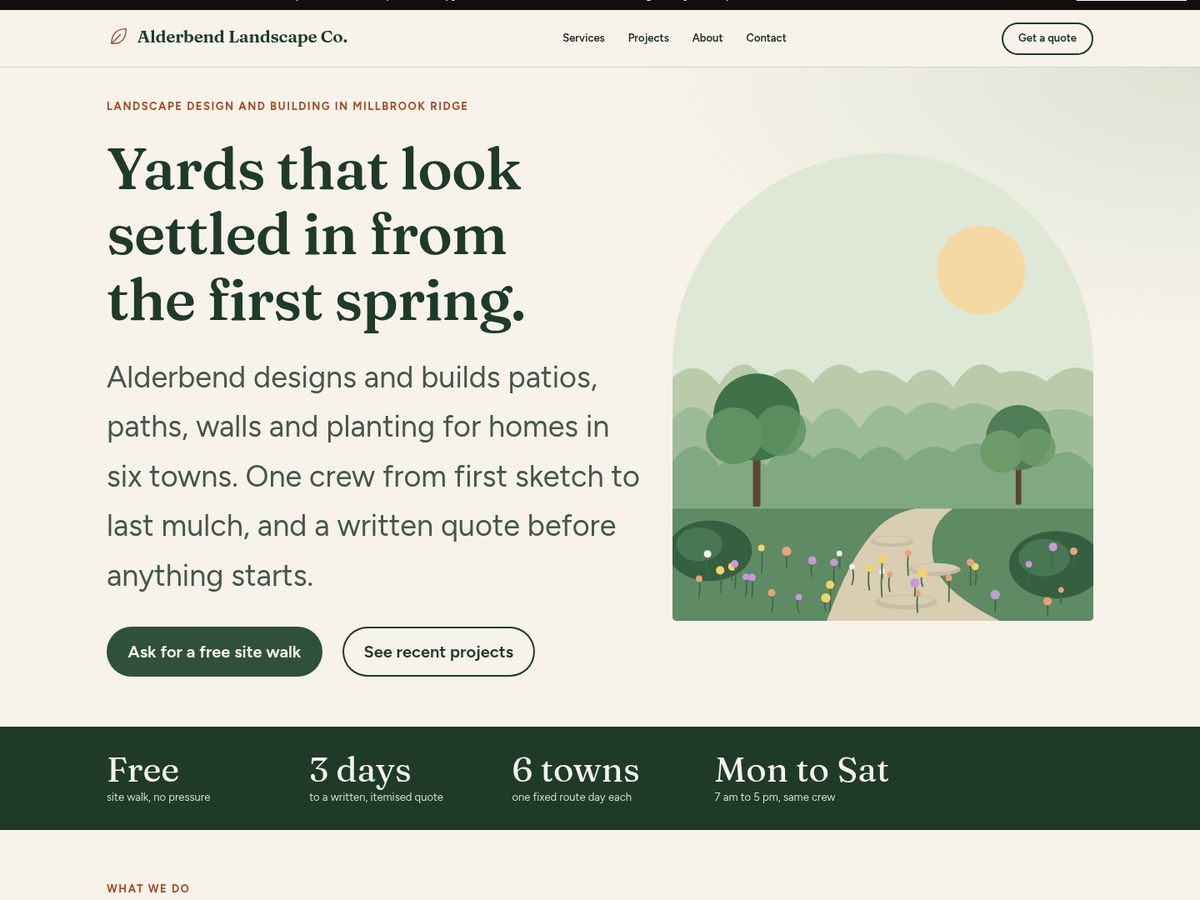
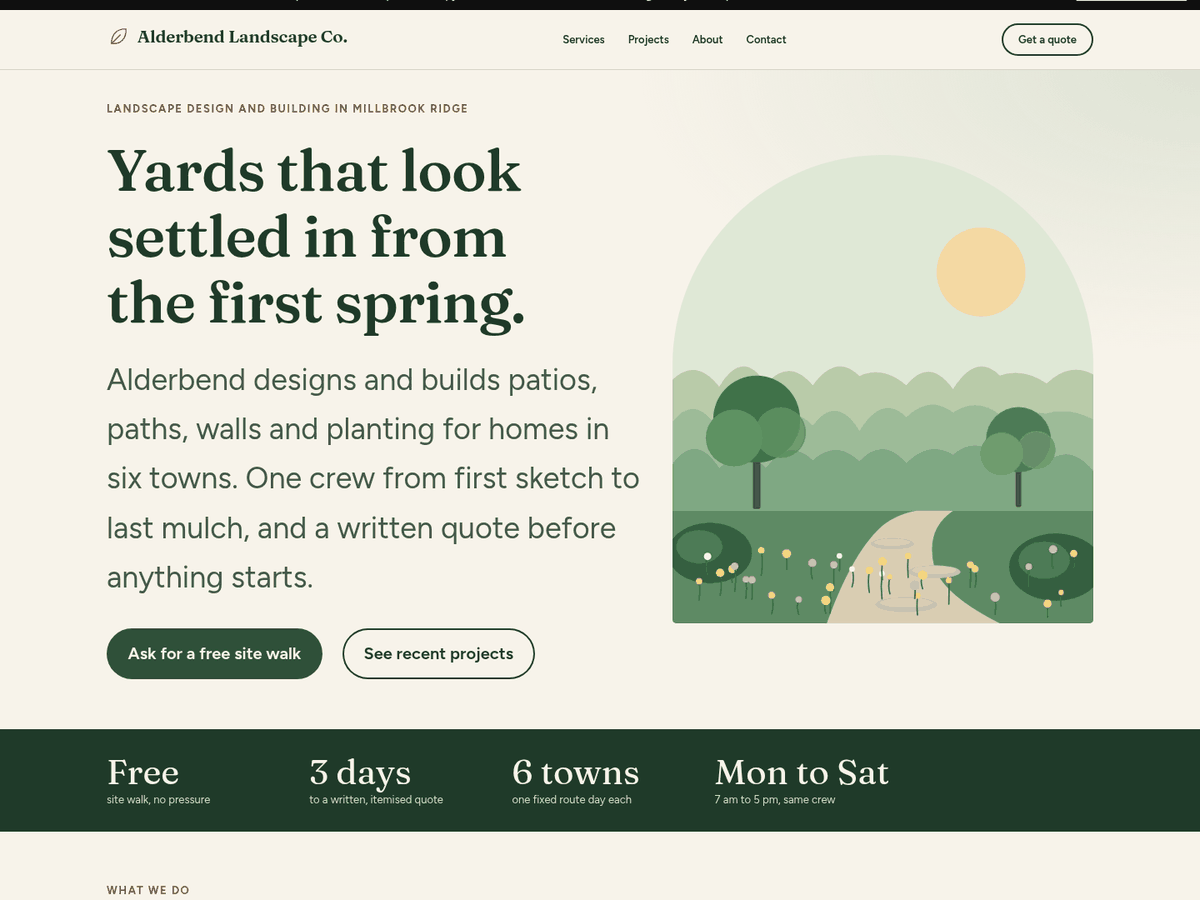
Style the phone menu overlay and add the editor and menu screenshot tools

diff --git a/theme/alderbend/assets/css/theme.css b/theme/alderbend/assets/css/theme.css
@@ -34,6 +34,10 @@
 	mask: url("../images/icon-leaf.svg") center / contain no-repeat;
 }
 .ab-nav .wp-block-navigation__container { gap: 1.75rem; }
+.ab-nav .wp-block-navigation__responsive-container.is-menu-open { padding: 1.5rem var(--wp--preset--spacing--40); }
+.ab-nav .is-menu-open .wp-block-navigation__container { gap: 1.1rem; align-items: flex-start; }
+.ab-nav .is-menu-open .wp-block-navigation-item__content { font-family: var(--wp--preset--font-family--display); font-size: 2rem; font-weight: 560; color: var(--wp--preset--color--base); }
+.ab-nav .is-menu-open .wp-block-navigation__responsive-dialog { margin-top: 1rem; }
 
 /* Buttons */
 .wp-block-button.is-style-alderbend-ghost .wp-block-button__link {
@@ -112,6 +116,10 @@
 	mask: url("../images/icon-leaf.svg") center / contain no-repeat;
 }
 .ab-nav .wp-block-navigation__container { gap: 1.75rem; }
+.ab-nav .wp-block-navigation__responsive-container.is-menu-open { padding: 1.5rem var(--wp--preset--spacing--40); }
+.ab-nav .is-menu-open .wp-block-navigation__container { gap: 1.1rem; align-items: flex-start; }
+.ab-nav .is-menu-open .wp-block-navigation-item__content { font-family: var(--wp--preset--font-family--display); font-size: 2rem; font-weight: 560; color: var(--wp--preset--color--base); }
+.ab-nav .is-menu-open .wp-block-navigation__responsive-dialog { margin-top: 1rem; }
 
 /* Buttons */
 .wp-block-button.is-style-alderbend-ghost .wp-block-button__link {

diff --git a/theme/alderbend/patterns/header-inner.php b/theme/alderbend/patterns/header-inner.php
@@ -19,7 +19,7 @@ if ( ! defined( 'ABSPATH' ) ) {
 <div class="wp-block-group alignfull ab-header"><!-- wp:group {"align":"wide","className":"ab-header__inner","layout":{"type":"flex","flexWrap":"wrap","justifyContent":"space-between","verticalAlignment":"center"}} -->
 <div class="wp-block-group alignwide ab-header__inner"><!-- wp:site-title {"level":0,"className":"ab-brand"} /-->
 
-<!-- wp:navigation {"overlayMenu":"mobile","layout":{"type":"flex","justifyContent":"center"},"className":"ab-nav"} -->
+<!-- wp:navigation {"overlayMenu":"mobile","overlayBackgroundColor":"primary-dark","overlayTextColor":"base","layout":{"type":"flex","justifyContent":"center"},"className":"ab-nav"} -->
 <!-- wp:navigation-link {"label":"<?php echo esc_attr_x( 'Services', 'menu item', 'alderbend' ); ?>","type":"page","url":"<?php echo esc_url( home_url( '/services/' ) ); ?>","kind":"custom","isTopLevelLink":true} /-->
 <!-- wp:navigation-link {"label":"<?php echo esc_attr_x( 'Projects', 'menu item', 'alderbend' ); ?>","type":"page","url":"<?php echo esc_url( home_url( '/projects/' ) ); ?>","kind":"custom","isTopLevelLink":true} /-->
 <!-- wp:navigation-link {"label":"<?php echo esc_attr_x( 'About', 'menu item', 'alderbend' ); ?>","type":"page","url":"<?php echo esc_url( home_url( '/about/' ) ); ?>","kind":"custom","isTopLevelLink":true} /-->
